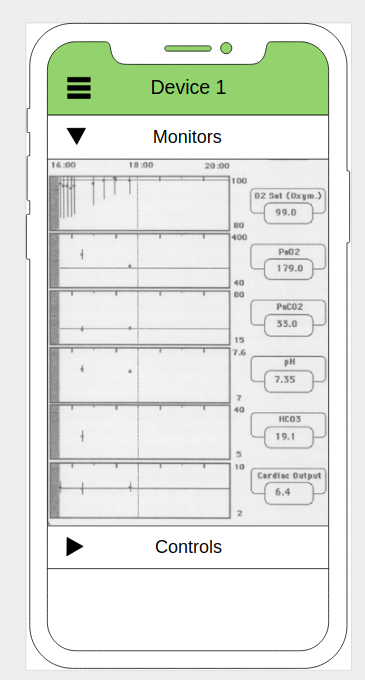
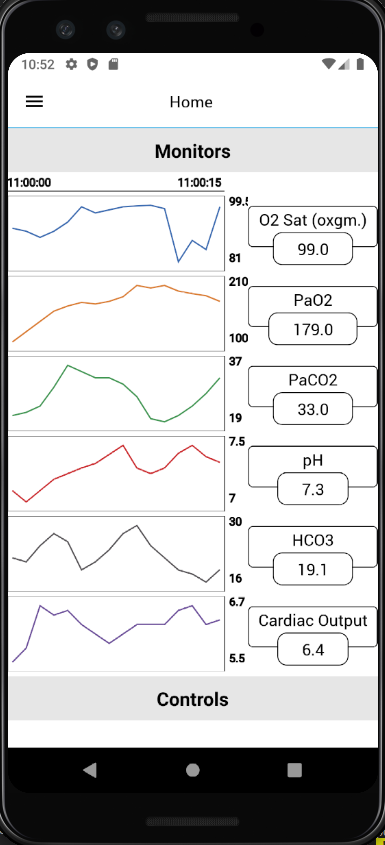
creates presentable monitor graphs

diff --git a/src/containers/HomeContainer/index.js b/src/containers/HomeContainer/index.js
@@ -4,49 +4,144 @@ import {connect} from 'react-redux';
 import {show} from 'redux-modal';
 import Home from '../../components/Home';
 
-const data = [
-    {time: new Date(2020, 4, 1, 11, 0, 0), value: 0},
-    {time: new Date(2020, 4, 1, 11, 0, 1), value: -0.1},
-    {time: new Date(2020, 4, 1, 11, 0, 2), value: -0.2},
-    {time: new Date(2020, 4, 1, 11, 0, 3), value: 2},
-    {time: new Date(2020, 4, 1, 11, 0, 4), value: 3.1},
-    {time: new Date(2020, 4, 1, 11, 0, 5), value: 4},
-    {time: new Date(2020, 4, 1, 11, 0, 6), value: 4.5},
-    {time: new Date(2020, 4, 1, 11, 0, 7), value: 5},
-    {time: new Date(2020, 4, 1, 11, 0, 8), value: 0},
-    {time: new Date(2020, 4, 1, 11, 0, 9), value: -0.1},
-    {time: new Date(2020, 4, 1, 11, 0, 10), value: -0.2},
-    {time: new Date(2020, 4, 1, 11, 0, 11), value: 2},
-    {time: new Date(2020, 4, 1, 11, 0, 12), value: 3.1},
-    {time: new Date(2020, 4, 1, 11, 0, 13), value: 4},
-    {time: new Date(2020, 4, 1, 11, 0, 14), value: 4.5},
-    {time: new Date(2020, 4, 1, 11, 0, 15), value: 5},
+const o2satData = [
+    {time: new Date(2020, 4, 1, 11, 0, 0), value: 92},
+    {time: new Date(2020, 4, 1, 11, 0, 1), value: 91},
+    {time: new Date(2020, 4, 1, 11, 0, 2), value: 89},
+    {time: new Date(2020, 4, 1, 11, 0, 3), value: 91},
+    {time: new Date(2020, 4, 1, 11, 0, 4), value: 94},
+    {time: new Date(2020, 4, 1, 11, 0, 5), value: 99},
+    {time: new Date(2020, 4, 1, 11, 0, 6), value: 97},
+    {time: new Date(2020, 4, 1, 11, 0, 7), value: 98},
+    {time: new Date(2020, 4, 1, 11, 0, 8), value: 99},
+    {time: new Date(2020, 4, 1, 11, 0, 9), value: 99.3},
+    {time: new Date(2020, 4, 1, 11, 0, 10), value: 99.5},
+    {time: new Date(2020, 4, 1, 11, 0, 11), value: 98.4},
+    {time: new Date(2020, 4, 1, 11, 0, 12), value: 81},
+    {time: new Date(2020, 4, 1, 11, 0, 13), value: 88},
+    {time: new Date(2020, 4, 1, 11, 0, 14), value: 85},
+    {time: new Date(2020, 4, 1, 11, 0, 15), value: 99},
+];
+
+const paO2Data = [
+    {time: new Date(2020, 4, 1, 11, 0, 0), value: 100},
+    {time: new Date(2020, 4, 1, 11, 0, 1), value: 120},
+    {time: new Date(2020, 4, 1, 11, 0, 2), value: 140},
+    {time: new Date(2020, 4, 1, 11, 0, 3), value: 160},
+    {time: new Date(2020, 4, 1, 11, 0, 4), value: 170},
+    {time: new Date(2020, 4, 1, 11, 0, 5), value: 177},
+    {time: new Date(2020, 4, 1, 11, 0, 6), value: 174},
+    {time: new Date(2020, 4, 1, 11, 0, 7), value: 179},
+    {time: new Date(2020, 4, 1, 11, 0, 8), value: 188},
+    {time: new Date(2020, 4, 1, 11, 0, 9), value: 210},
+    {time: new Date(2020, 4, 1, 11, 0, 10), value: 205},
+    {time: new Date(2020, 4, 1, 11, 0, 11), value: 210},
+    {time: new Date(2020, 4, 1, 11, 0, 12), value: 199},
+    {time: new Date(2020, 4, 1, 11, 0, 13), value: 194},
+    {time: new Date(2020, 4, 1, 11, 0, 14), value: 190},
+    {time: new Date(2020, 4, 1, 11, 0, 15), value: 179},
+];
+
+const paCo2Data = [
+    {time: new Date(2020, 4, 1, 11, 0, 0), value: 21},
+    {time: new Date(2020, 4, 1, 11, 0, 1), value: 22},
+    {time: new Date(2020, 4, 1, 11, 0, 2), value: 24},
+    {time: new Date(2020, 4, 1, 11, 0, 3), value: 30},
+    {time: new Date(2020, 4, 1, 11, 0, 4), value: 37},
+    {time: new Date(2020, 4, 1, 11, 0, 5), value: 35},
+    {time: new Date(2020, 4, 1, 11, 0, 6), value: 33},
+    {time: new Date(2020, 4, 1, 11, 0, 7), value: 33},
+    {time: new Date(2020, 4, 1, 11, 0, 8), value: 31},
+    {time: new Date(2020, 4, 1, 11, 0, 9), value: 27},
+    {time: new Date(2020, 4, 1, 11, 0, 10), value: 20},
+    {time: new Date(2020, 4, 1, 11, 0, 11), value: 19},
+    {time: new Date(2020, 4, 1, 11, 0, 12), value: 21},
+    {time: new Date(2020, 4, 1, 11, 0, 13), value: 24},
+    {time: new Date(2020, 4, 1, 11, 0, 14), value: 28},
+    {time: new Date(2020, 4, 1, 11, 0, 15), value: 33},
+];
+
+const phData = [
+    {time: new Date(2020, 4, 1, 11, 0, 0), value: 7.1},
+    {time: new Date(2020, 4, 1, 11, 0, 1), value: 7},
+    {time: new Date(2020, 4, 1, 11, 0, 2), value: 7.1},
+    {time: new Date(2020, 4, 1, 11, 0, 3), value: 7.2},
+    {time: new Date(2020, 4, 1, 11, 0, 4), value: 7.25},
+    {time: new Date(2020, 4, 1, 11, 0, 5), value: 7.3},
+    {time: new Date(2020, 4, 1, 11, 0, 6), value: 7.34},
+    {time: new Date(2020, 4, 1, 11, 0, 7), value: 7.42},
+    {time: new Date(2020, 4, 1, 11, 0, 8), value: 7.5},
+    {time: new Date(2020, 4, 1, 11, 0, 9), value: 7.3},
+    {time: new Date(2020, 4, 1, 11, 0, 10), value: 7.25},
+    {time: new Date(2020, 4, 1, 11, 0, 11), value: 7.3},
+    {time: new Date(2020, 4, 1, 11, 0, 12), value: 7.43},
+    {time: new Date(2020, 4, 1, 11, 0, 13), value: 7.5},
+    {time: new Date(2020, 4, 1, 11, 0, 14), value: 7.4},
+    {time: new Date(2020, 4, 1, 11, 0, 15), value: 7.35},
+];
+
+const hco3Data = [
+    {time: new Date(2020, 4, 1, 11, 0, 0), value: 22},
+    {time: new Date(2020, 4, 1, 11, 0, 1), value: 21},
+    {time: new Date(2020, 4, 1, 11, 0, 2), value: 25},
+    {time: new Date(2020, 4, 1, 11, 0, 3), value: 28},
+    {time: new Date(2020, 4, 1, 11, 0, 4), value: 26},
+    {time: new Date(2020, 4, 1, 11, 0, 5), value: 19},
+    {time: new Date(2020, 4, 1, 11, 0, 6), value: 21},
+    {time: new Date(2020, 4, 1, 11, 0, 7), value: 24},
+    {time: new Date(2020, 4, 1, 11, 0, 8), value: 28},
+    {time: new Date(2020, 4, 1, 11, 0, 9), value: 30},
+    {time: new Date(2020, 4, 1, 11, 0, 10), value: 25},
+    {time: new Date(2020, 4, 1, 11, 0, 11), value: 22},
+    {time: new Date(2020, 4, 1, 11, 0, 12), value: 19},
+    {time: new Date(2020, 4, 1, 11, 0, 13), value: 18},
+    {time: new Date(2020, 4, 1, 11, 0, 14), value: 16},
+    {time: new Date(2020, 4, 1, 11, 0, 15), value: 19.1},
+];
+
+const cardOutputData = [
+    {time: new Date(2020, 4, 1, 11, 0, 0), value: 5.5},
+    {time: new Date(2020, 4, 1, 11, 0, 1), value: 5.8},
+    {time: new Date(2020, 4, 1, 11, 0, 2), value: 6.7},
+    {time: new Date(2020, 4, 1, 11, 0, 3), value: 6.5},
+    {time: new Date(2020, 4, 1, 11, 0, 4), value: 6.6},
+    {time: new Date(2020, 4, 1, 11, 0, 5), value: 6.3},
+    {time: new Date(2020, 4, 1, 11, 0, 6), value: 6.1},
+    {time: new Date(2020, 4, 1, 11, 0, 7), value: 5.9},
+    {time: new Date(2020, 4, 1, 11, 0, 8), value: 6.1},
+    {time: new Date(2020, 4, 1, 11, 0, 9), value: 6.3},
+    {time: new Date(2020, 4, 1, 11, 0, 10), value: 6.3},
+    {time: new Date(2020, 4, 1, 11, 0, 11), value: 6.3},
+    {time: new Date(2020, 4, 1, 11, 0, 12), value: 6.6},
+    {time: new Date(2020, 4, 1, 11, 0, 13), value: 6.7},
+    {time: new Date(2020, 4, 1, 11, 0, 14), value: 6.3},
+    {time: new Date(2020, 4, 1, 11, 0, 15), value: 6.4},
 ];
 
 const allGraphs = [
     {
         name: 'O2 Sat (oxgm.)',
-        data: data,
+        data: o2satData,
     },
     {
         name: 'PaO2',
-        data: data,
+        data: paO2Data,
     },
     {
         name: 'PaCO2',
-        data: data,
+        data: paCo2Data,
     },
     {
         name: 'pH',
-        data: data,
+        data: phData,
     },
     {
         name: 'HCO3',
-        data: data,
+        data: hco3Data,
     },
     {
         name: 'Cardiac Output',
-        data: data,
+        data: cardOutputData,
     },
 ];
 

diff --git a/src/components/Graphs/lineGraph.js b/src/components/Graphs/lineGraph.js
@@ -14,7 +14,7 @@ const ChartContainer = styled.View`
     flex-direction: row;
 `;
 
-const LineGraph = ({data, width, height}) => {
+const LineGraph = ({data, width, height, color}) => {
     let domain = getDataTimeDomain(data);
     let range = getDataValueRange(data);
 
@@ -39,8 +39,8 @@ const LineGraph = ({data, width, height}) => {
                 <Path
                     d={line}
                     fill="transparent"
-                    stroke="rgb(134, 65, 244)"
-                    strokeWidth={1}
+                    stroke={color}
+                    strokeWidth={1.5}
                 />
                 {createBorder(width, height)}
                 {createYAxisLabels(range, scaleY, labelStart)}

diff --git a/src/components/Graphs/graphReadingRow.js b/src/components/Graphs/graphReadingRow.js
@@ -25,10 +25,15 @@ const ValueContainer = styled.View`
     top: 10px;
 `;
 
-const GraphReadingRow = ({data, label}) => (
+const GraphReadingRow = ({data, label, color}) => (
     <RowContainer>
         <GraphContainer>
-            <LineGraph data={data} width={screenWidth * 0.65} height={80} />
+            <LineGraph
+                data={data}
+                width={screenWidth * 0.65}
+                height={80}
+                color={color}
+            />
         </GraphContainer>
         <ValueContainer>
             <GraphReading label={label} value={lastDataValue(data)} />

diff --git a/src/components/Graphs/graphList.js b/src/components/Graphs/graphList.js
@@ -4,6 +4,7 @@ import GraphReadingRow from './graphReadingRow';
 import {getDataTimeDomain} from './graphUtils';
 import TimeAxis from './timeAxis';
 import {graphWidth} from './graphValues';
+import {GraphColors} from '../Common/common';
 
 const GraphList = ({graphs}) => {
     if (!graphs || graphs.length === 0) {
@@ -19,6 +20,7 @@ const GraphList = ({graphs}) => {
             key={`${graph.name}-${i}`}
             label={graph.name}
             data={graph.data}
+            color={GraphColors[i]}
         />
     ));
 

diff --git a/src/components/Common/common.js b/src/components/Common/common.js
@@ -4,3 +4,14 @@ import styled from 'styled-components';
 export const CenterText = styled.Text`
     text-align: center;
 `;
+
+export const GraphColors = [
+    'rgb(57, 106, 177)',
+    'rgb(218, 124, 48)',
+    'rgb(62, 150, 81)',
+    'rgb(204, 37, 41)',
+    'rgb(83, 81, 84)',
+    'rgb(107, 76, 154)',
+    'rgb(146, 36, 40)',
+    'rgb(148, 139, 61)',
+];

diff --git a/README.md b/README.md
@@ -15,6 +15,7 @@ With ventilators in short supply amid the COVID-19 pandemic, motivated engineers
 I have never used a ventilator and my knowledge of ventilators begins and ends with this hour-long [Med-cram course](https://www.medcram.com/courses/COVID19-ventilator-mechanical-ventilation?fbclid=IwAR1pwLeSyTTVwNo6_-d1xhMUXPavGMFaVvjm6UAuMBiM2KJm_HhCdow5p9E). I will do the best I can to make a useful product, but I am very new to this area. Please, if you happen upon this project, fork it, submit pull requests, message me - I want this to be of some use and I can't do that alone.
 
 ## Requirements
+
 - [Node](https://nodejs.org) `6.x` or newer
 - [React Native](http://facebook.github.io/react-native/docs/getting-started.html) for development
 - [Xcode](https://developer.apple.com/xcode/) for iOS development
@@ -26,6 +27,7 @@ I have never used a ventilator and my knowledge of ventilators begins and ends w
 See [Getting Started](https://facebook.github.io/react-native/docs/getting-started.html) to install requirement tools.
 
 ## Stack
+
 - [React JS](https://reactjs.org/) is a JavaScript library
 - [React Native](https://facebook.github.io/react-native/) `0.57.0` for building native apps using react
 - [Redux](https://redux.js.org) `4.0.0` a predictable state container for Javascript apps
